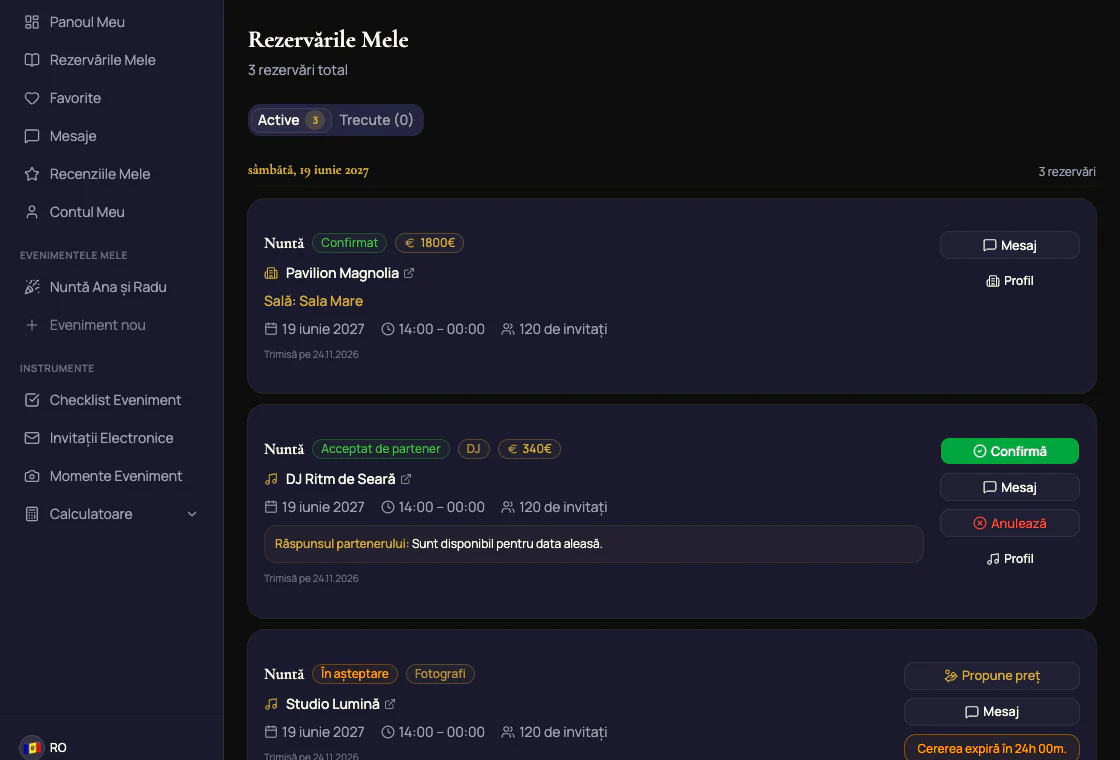
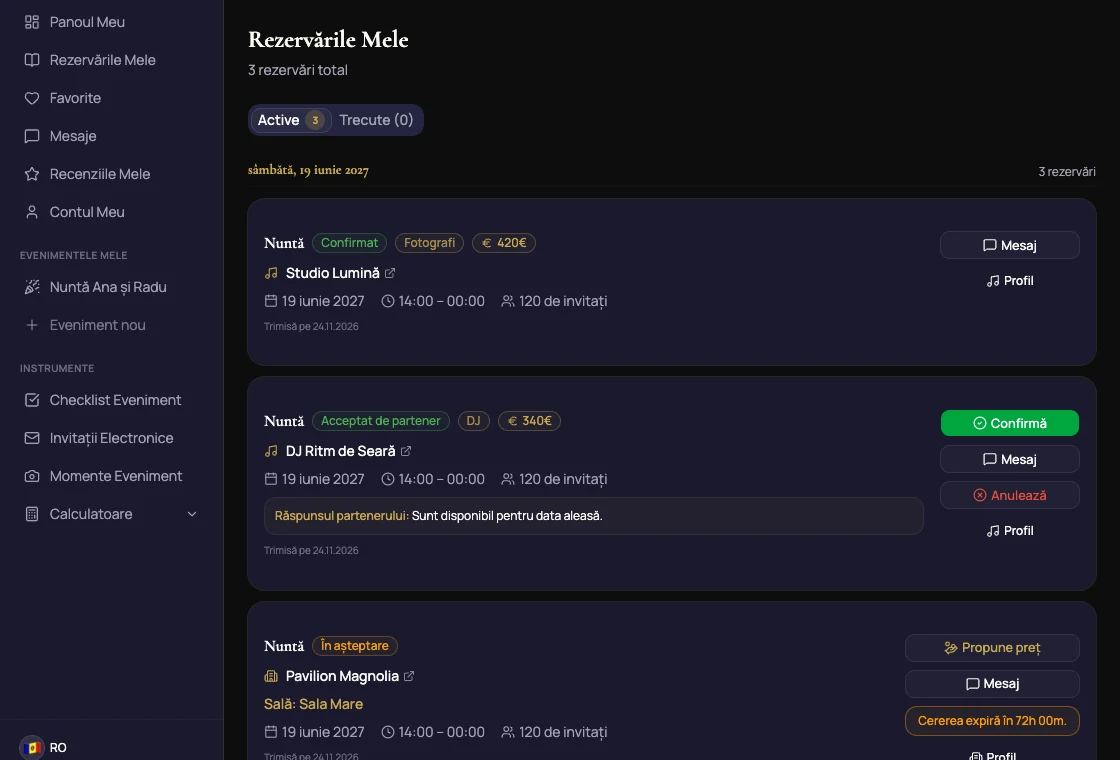
Show an artist confirmed in the booking example

Changed region(s): [[0.2188, 0.3026, 1.0, 1.0], [0.875, 0.3632, 0.9062, 0.3934]]

diff --git a/src/app/[locale]/(public)/cum-functioneaza/content.ts b/src/app/[locale]/(public)/cum-functioneaza/content.ts
@@ -89,7 +89,7 @@ export const guideCopy: Record<AppLocale, GuideCopy> = {
       confirm: {
         title: "Urmărește răspunsurile și confirmă rezervările",
         description: "În „Rezervările Mele” vezi starea fiecărei cereri. Folosește mesajele pentru a discuta tariful, programul și detaliile cu furnizorul. Dacă partenerul a acceptat cererea și oferta îți convine, apasă „Confirmă”.",
-        imageAlt: "Rezervările Mele cu o sală confirmată, o ofertă acceptată și o cerere în așteptare.",
+        imageAlt: "Rezervările Mele cu un fotograf confirmat, o ofertă acceptată și o cerere în așteptare.",
         caption: "Statusurile din Rezervările Mele",
       },
       checklist: {
@@ -153,7 +153,7 @@ export const guideCopy: Record<AppLocale, GuideCopy> = {
       confirm: {
         title: "Следите за ответами и подтверждайте бронирования",
         description: "В разделе «Мои бронирования» виден статус каждого запроса. Обсудите цену, время и детали в сообщениях. Когда партнёр примет запрос, нажмите «Подтвердить», если предложение вам подходит.",
-        imageAlt: "Мои бронирования с подтверждённым залом, принятым предложением и запросом в ожидании.",
+        imageAlt: "Мои бронирования с подтверждённым фотографом, принятым предложением и запросом в ожидании.",
         caption: "Статусы в разделе «Мои бронирования»",
       },
       checklist: {
@@ -217,7 +217,7 @@ export const guideCopy: Record<AppLocale, GuideCopy> = {
       confirm: {
         title: "Follow the replies and confirm your bookings",
         description: "In My Bookings you can see the status of every request. Use messages to discuss the price, schedule and details. Once the provider accepts the request, select Confirm if you are happy with the offer.",
-        imageAlt: "My Bookings with a confirmed venue, an accepted offer and a pending request.",
+        imageAlt: "My Bookings with a confirmed photographer, an accepted offer and a pending request.",
         caption: "Statuses in My Bookings",
       },
       checklist: {
